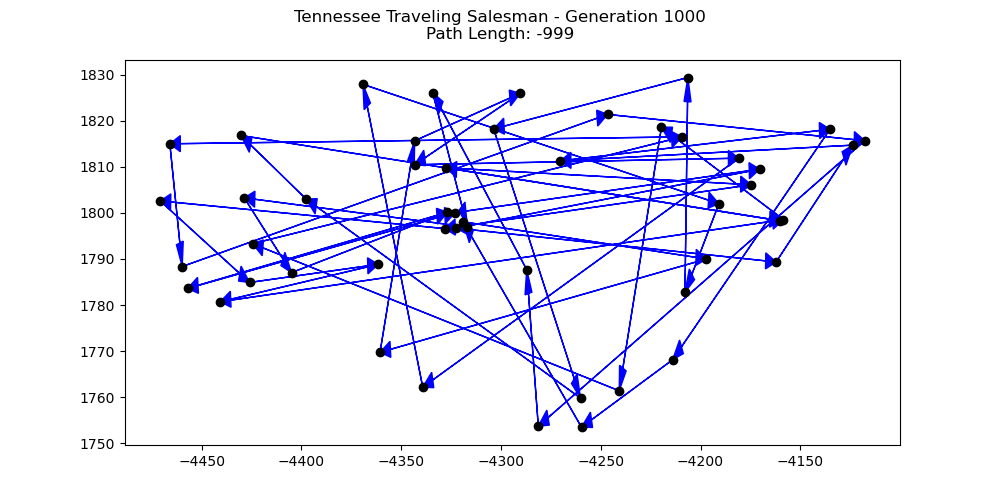
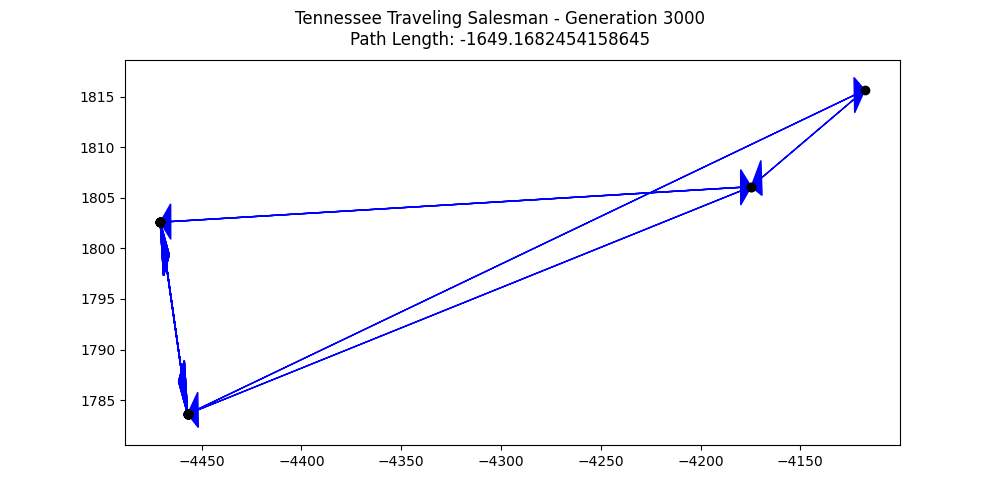
Fixed mutation.

diff --git a/genetic_algorith_TSP.py b/genetic_algorith_TSP.py
@@ -184,7 +184,7 @@ class GeneticSearch:
 
 		# If the same parent is chosen, pick another
 		while str(parent1) == str(parent2):
-			self.population[random.randint(0,self.population_size-1)][0]
+			parent2 = self.population[random.randint(0,self.population_size-1)][0]
 		return parent1, parent2
 
 
@@ -193,12 +193,6 @@ class GeneticSearch:
 			Reproduce using parent1 and parent2 and a crossover
 			 strategy.
 		'''
-
-		# TODO: Implement a reproduction (e.g., crossover) strategy.
-		# child1 = parent1
-		# child2 = parent2
-
-		# return child1,child2
 
 		child1 = []
 		child2 = []
@@ -214,14 +208,8 @@ class GeneticSearch:
 		# place the first crossover point based on the lower index
 		gene_index_start, gene_index_end = (i,j) if i<j else (j,i)
 
-		child1.extend(parent1[0:gene_index_start])
-		child1.extend(parent2[gene_index_start:gene_index_end])
-		child1.extend(parent1[gene_index_end:])
-
-		# child 2 gets the opposite
-		child2.extend(parent2[0:gene_index_start])
-		child2.extend(parent1[gene_index_start:gene_index_end])
-		child2.extend(parent2[gene_index_end:])
+		child1 = parent1[0:gene_index_start] + parent2[gene_index_start:gene_index_end] + parent1[gene_index_end:]
+		child2 = parent2[0:gene_index_start] + parent1[gene_index_start:gene_index_end] + parent2[gene_index_end:]
 
 		return child1, child2
 
@@ -231,8 +219,11 @@ class GeneticSearch:
 			Mutation Strategy
 		'''
 		# swap two cities (not the origin city)
-		# TODO: Maybe add a third city and "shuffle them" if this is ineffective
 		i, j = random.sample(range(1, len(child)), 2)
+
+		while i == j:
+			j = random.sample(range(1, len(child)),2)
+
 		child[i], child[j] = child[j], child[i]
 		return child
 
@@ -303,7 +294,7 @@ class GeneticSearch:
 			self.population = new_population
 
 			# TODO: Change display rate as needed. Set by 1000 as default.
-			if generations % 1000 == 0 or generations >= self.generations:
+			if generations % 100 == 0 or generations >= self.generations:
 				print("Generation: %d" % generations,"Fitness: %f" % self.population[0][1])
 				if generations == self.generations:
 					plotTSP(generations, self.population[0][0], self.points, self.population[0][1],True)
@@ -343,7 +334,7 @@ if __name__ == '__main__':
 	#             4. list of city names,
 	#             5. number of individuals in each generation,
 	#             6. mutation rate
-	gs = GeneticSearch(origin, 50, points, cities, 10, 0.45)
+	gs = GeneticSearch(origin, 3000, points, cities, 100, 0.5)
 	gs.run()
 
 	x = input("Press Enter to Exit...")
